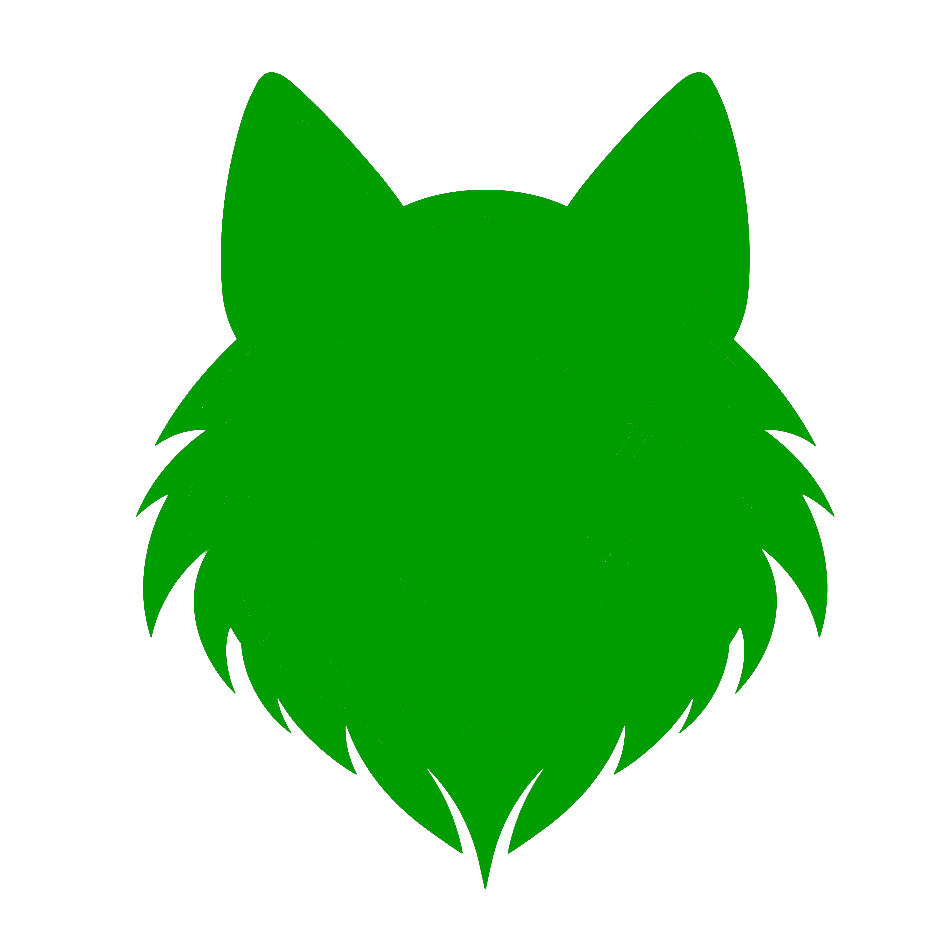
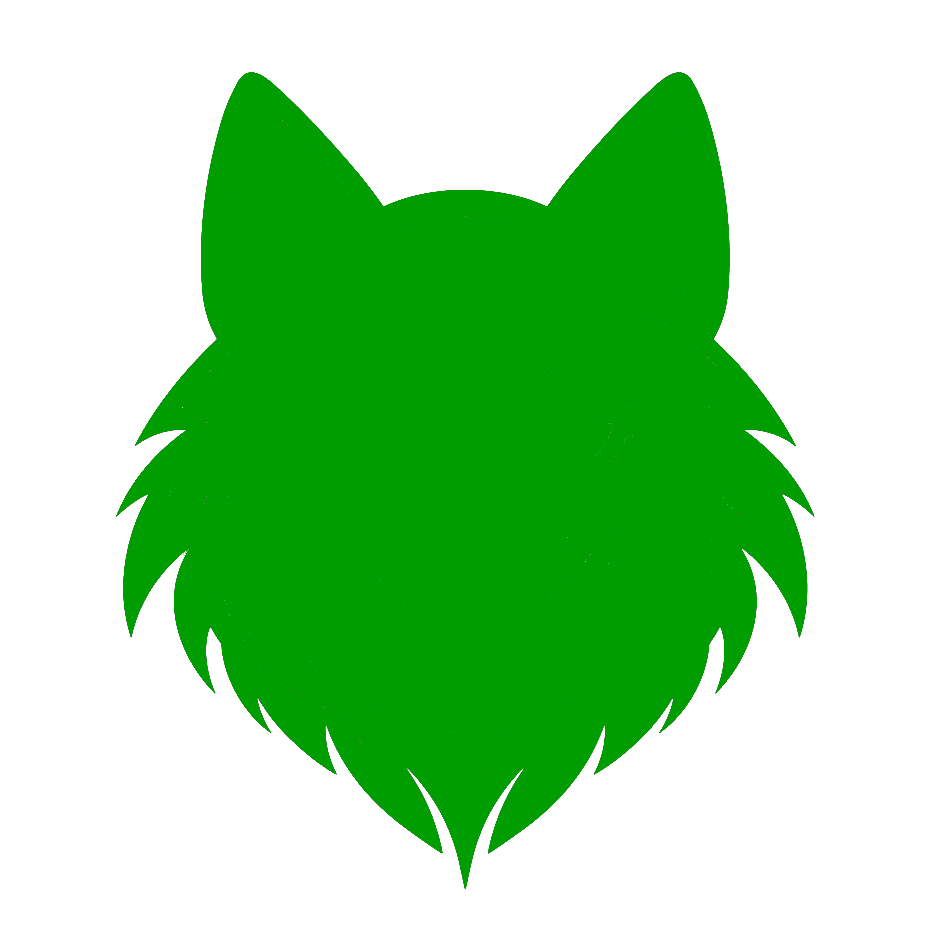
Ajout d'une animation sur la page de connexion

diff --git a/home.py b/home.py
@@ -3,19 +3,22 @@ import pygame
 from source.pygame_manager.event_handler import Event_handler
 from source.pygame_manager.element import Element
 from source.pygame_manager.screen import Screen
+from source.pygame_manager.animation import Animation
 from hashlib import sha256
 from data.discord_manager import Discord_Manager
 
-class Home(Element, Screen, Event_handler, Discord_Manager):
+class Home(Screen, Event_handler, Discord_Manager, Animation, Element):
     
     def __init__(self):
         Screen.__init__(self)
         Element.__init__(self)
         Event_handler.__init__(self)
         Discord_Manager.__init__(self)
+        Animation.__init__(self)
     
         self.input_email= "Email address"
-        self.input_password= "Password"       
+        self.input_password= "Password"
+        self.entry = 0
 
     def design(self): 
         self.screen_color(self.grey)
@@ -28,13 +31,6 @@ class Home(Element, Screen, Event_handler, Discord_Manager):
         self.text_not_align(self.font2,20,"Discord is a versatile communication platform, voice,", self.grey4,80, 505)
         self.text_not_align(self.font2,20,"and video chat features, fostering real-time interaction", self.grey4,80, 530)
         self.text_not_align(self.font2,20,"and collaboration across diverse interests.", self.grey4,80, 555)
-
-        # Images animated
-        self.image_not_center("0wl", 170, 20, 370, 370,"home/home9") 
-        self.image_not_center("Cheetah", 210, 50, 300, 300,"home/home8") 
-        self.image_not_center("Lion", 170, 20, 370, 370,"home/home7") 
-        self.image_not_center("Wolf", 160, 0, 370, 370,"home/home6") 
-        self.image_not_center("Logo Discord", 270, 140, 170, 170,"home/home10")  
 
     # Connexion section       
 
@@ -101,6 +97,7 @@ class Home(Element, Screen, Event_handler, Discord_Manager):
         self.design()
         self.HoverLostPassword() 
         self.HoverSign()       
+        self.logo_home()  #Images animated
         
     def home_run(self):
 

diff --git a/source/pygame_manager/animation.py b/source/pygame_manager/animation.py
@@ -1,0 +1,39 @@
+class Animation():
+    def __init__(self):
+
+        self.img_growth = True
+        self.img_shrink = False
+        self.change_img = 1
+
+        self.anim_y = 0
+
+# Animated pictures on home page
+    def logo_home(self):
+        if self.img_growth: # Growing image
+            if self.anim_y < 370:
+                self.anim_y += 10
+            elif self.anim_y == 370:
+                self.img_shrink = True
+                self.img_growth = False
+
+        if self.img_shrink: #Shrinking image
+            if self.anim_y > 0:
+                self.anim_y -= 10
+            elif self.anim_y == 0:
+                if self.change_img < 4: 
+                    self.change_img += 1
+                else:
+                    self.change_img = 1
+                self.img_growth = True
+                self.img_shrink = False
+
+        if self.change_img == 1:
+            self.img_center("Lion", 355, 180, 370, self.anim_y,"home/home7") 
+        elif self.change_img == 2:
+            self.img_center("Wolf", 355, 180, 370, self.anim_y,"home/home6")         
+        elif self.change_img == 3:
+            self.img_center("Cheetah", 355, 180, 370, self.anim_y,"home/home8") 
+        elif self.change_img == 4:
+            self.img_center("0wl", 355, 180, 370, self.anim_y,"home/home9")
+        
+        self.img_center("Logo Discord", 355, 200, 150, 150,"home/home10")
